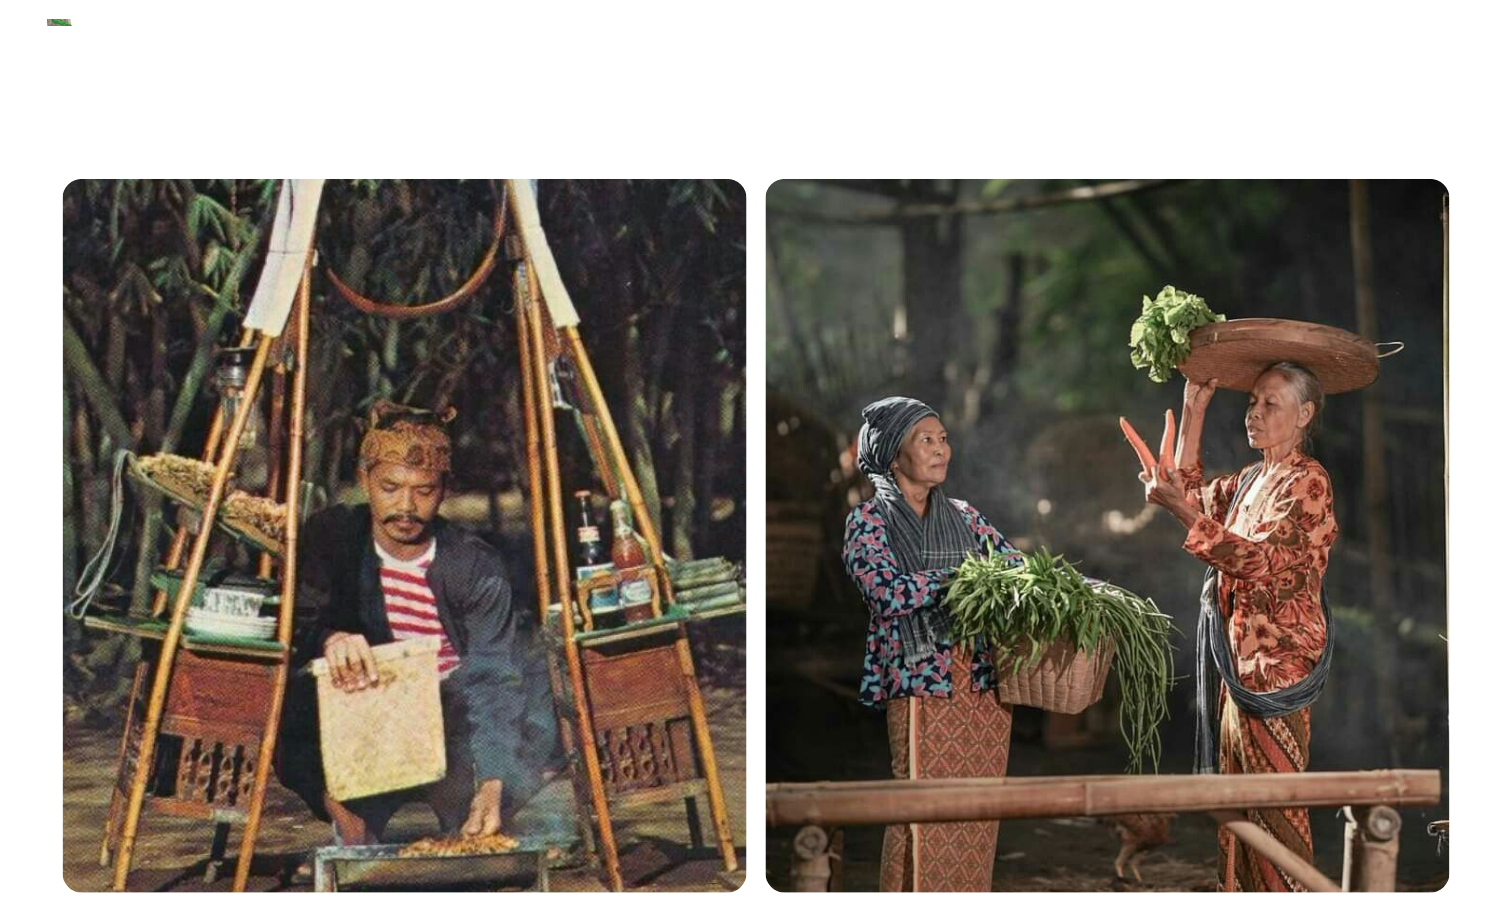
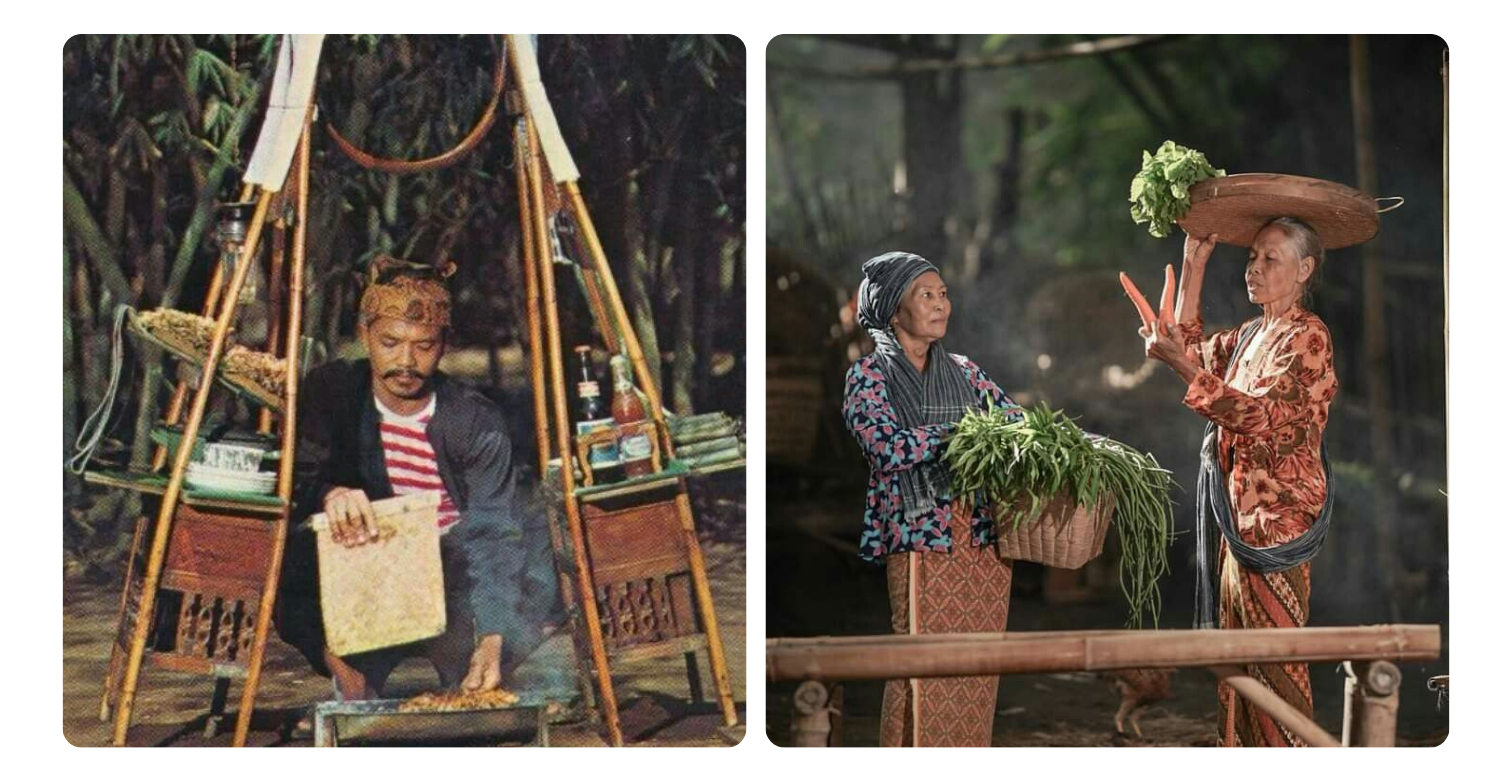
perbaikan

diff --git a/store.css b/store.css
@@ -409,7 +409,7 @@ body {
     width: 100vw;
     height: 700px;
     margin-left: calc(-50vw + 50%);
-    margin-top: -200px;
+    margin-top: 0;
     margin-bottom: 0;
     padding: 0;
     overflow: hidden;